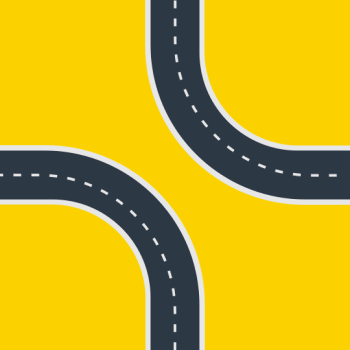
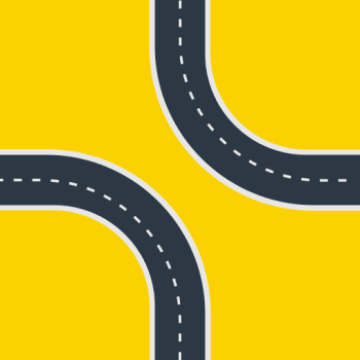
qol

diff --git a/templates/dsf_customize.html b/templates/dsf_customize.html
@@ -215,8 +215,8 @@
         var dimensions = screen.width;
         var stage = new Konva.Stage({
             container: 'container',
-            width: 375,
-            height: 375,
+            width: 360,
+            height: 360,
         });
 
         // creating container
@@ -243,8 +243,8 @@
             // y: ((stage.height() - 350) / 2),
             x: 0,
             y: 0,
-            width: 375,
-            height: 375,
+            width: 360,
+            height: 360,
             image: imageObj,
             listening: false, // because we don't need any events on the background
         });
